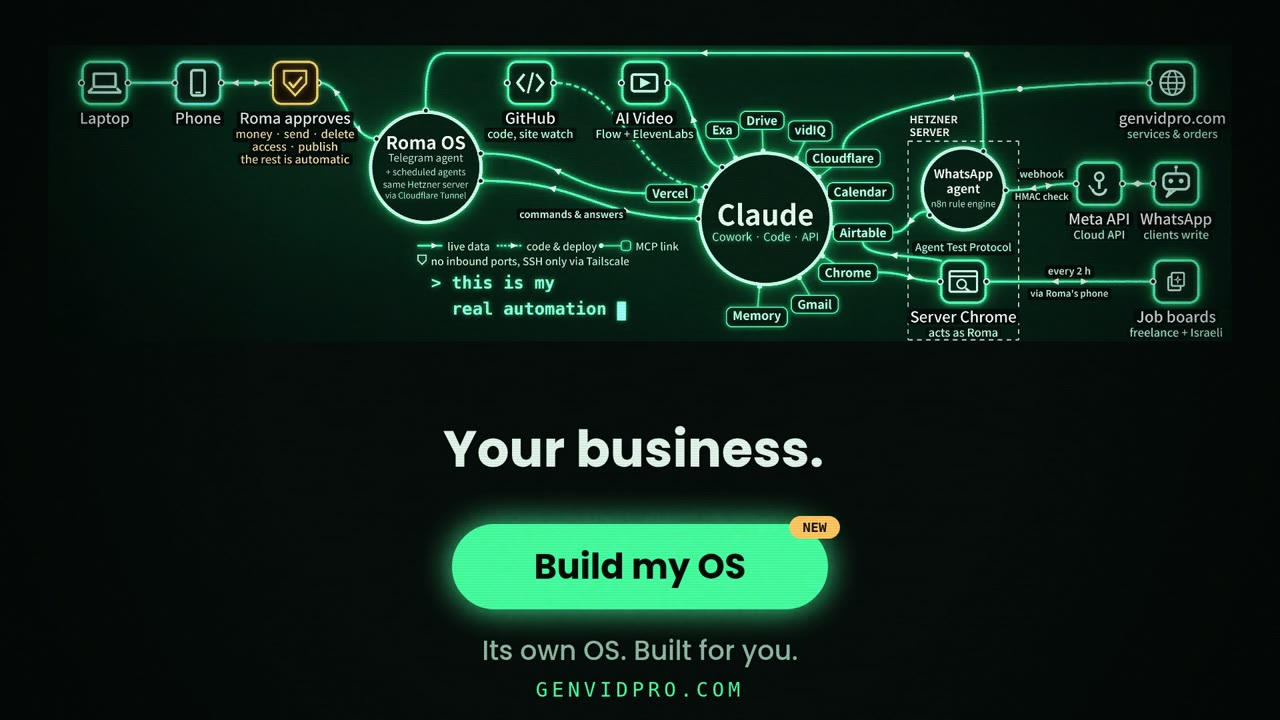
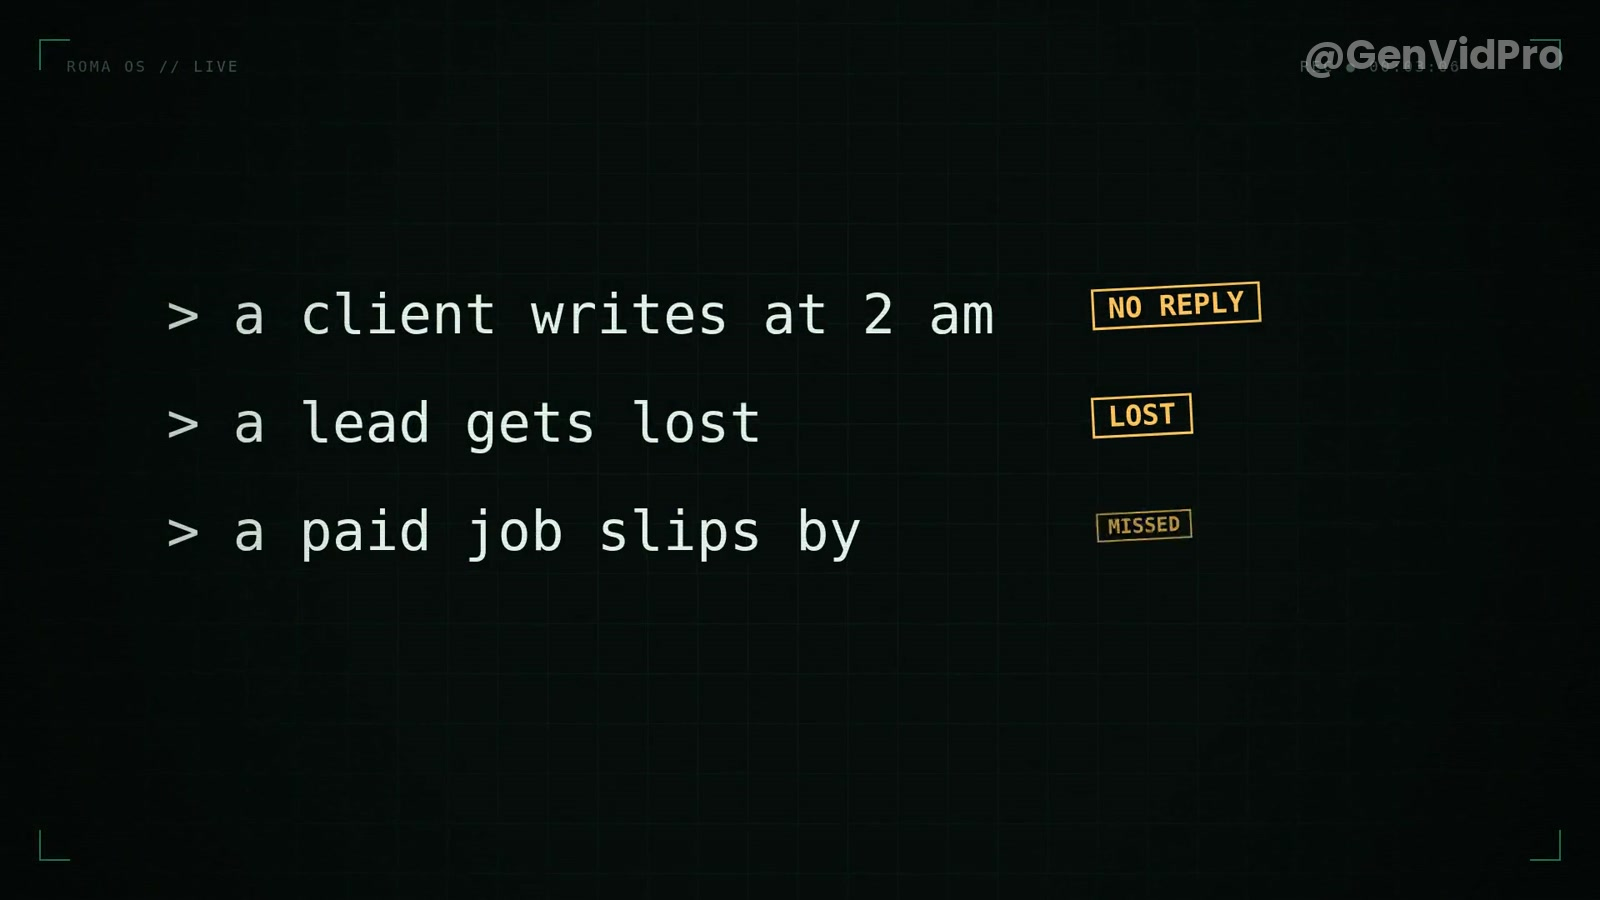
work: a My OS tile — the Roma OS ad joins the portfolio in the second row
The film was already on the site for /os and nowhere in the grid. Poster and both
previews are cut from it with the @GenVidPro mark of the brand spec (4.5 % of the
shorter side, top right, white 42 %), because the master carries none; the full
film stays unstamped as it is on /os.

media/build-my-os.jpg existed already and _headers holds /media/* for a week, so
that one tile asks for its poster with ?v=2 — otherwise the edge would keep
serving the old unstamped 1280-px frame to the grid.

diff --git a/work.html b/work.html
@@ -115,7 +115,11 @@ var W = [
  {b:'product-ads-showreel',   t:'Product Ads Showreel',        k:'5 spots · 4:5',             r:4/5},
  {b:'ai-doesnt-work-without-you-17s-social-cut', t:'It Does Not Work Without You', k:'Social cut · 17s · 16:9', r:16/9},
  {b:'app-without-store',      t:'App Without the Store',        k:'Product film · 2:33 · 9:16 · Hebrew', r:9/16},
- {b:'ai-build-pro',           t:'AIBuildPro',                   k:'Product film · 72s · 9:16 · Hebrew',  r:9/16}
+ {b:'ai-build-pro',           t:'AIBuildPro',                   k:'Product film · 72s · 9:16 · Hebrew',  r:9/16},
+ /* The only tile whose poster carries a version mark: media/build-my-os.jpg was
+    already on the site for /os, and _headers holds /media/* for a week, so the
+    edge would go on serving the old unstamped frame to this grid. */
+ {b:'build-my-os',            t:'My OS',                        k:'Product film · 55s · 16:9', r:16/9, pv:'?v=2'}
 ];
 
 /* A phone-shaped screen takes the 480-px previews and 540-px posters out of
@@ -136,11 +140,11 @@ var grid = document.getElementById('grid');
 /* justified rows: inside a row every tile keeps its own shape and they all
    end up the same height, because the width is shared in proportion to the
    aspect ratio (flex-grow = ratio, basis 0) */
-var LAYOUT = [[0],[1],[2],[3,4],[14,15],[5,6],[7,12],[8,9,10,11],[13]];
+var LAYOUT = [[0],[16],[1],[2],[3,4],[14,15],[5,6],[7,12],[8,9,10,11],[13]];
 /* On a phone the wide films take the full width and the four vertical ones stand
    in pairs. One vertical tile at full width is 690 px tall on a 390-px phone, so
    those four were 2 800 px of scrolling for four works; in pairs it is half that. */
-var LAYOUT_M = [[0],[1],[2],[3],[4],[5],[14,15],[6],[7],[8,9],[10,11],[12],[13]];
+var LAYOUT_M = [[0],[16],[1],[2],[3],[4],[5],[14,15],[6],[7],[8,9],[10,11],[12],[13]];
 var rows = (mob ? LAYOUT_M : LAYOUT).map(function(r){ return r.map(function(i){ return W[i]; }); });
 
 rows.forEach(function(items){
@@ -151,7 +155,7 @@ rows.forEach(function(items){
     f.style.flex = it.r + ' 1 0';
     f.innerHTML =
       '<div class="box" style="padding-top:'+((1/it.r)*100).toFixed(3)+'%">' +
-        '<img src="'+M+it.b+'.jpg" alt="'+it.t+'" loading="lazy" decoding="async">' +
+        '<img src="'+M+it.b+'.jpg'+(it.pv||'')+'" alt="'+it.t+'" loading="lazy" decoding="async">' +
         '<video muted loop playsinline preload="none" data-src="'+M+it.b+'-preview.mp4?pv=5"></video>' +
       '</div><span class="play"></span>' +
       '<figcaption class="cap"><span class="t">'+it.t+'</span><span class="k">'+it.k+'</span></figcaption>';
@@ -229,7 +233,7 @@ function openIt(it){
   closeIt();
   cv = document.createElement('video');
   cv.controls = true; cv.autoplay = true; cv.playsInline = true;
-  cv.poster = M + it.b + '.jpg';
+  cv.poster = M + it.b + '.jpg' + (it.pv || '');
   cv.src = (phone ? 'videos/m/' : 'videos/') + it.b + '.mp4';
   cv.onerror = function(){ if(cv.src.indexOf('/m/') > -1) cv.src = 'videos/' + it.b + '.mp4'; };
   lb.appendChild(cv);
